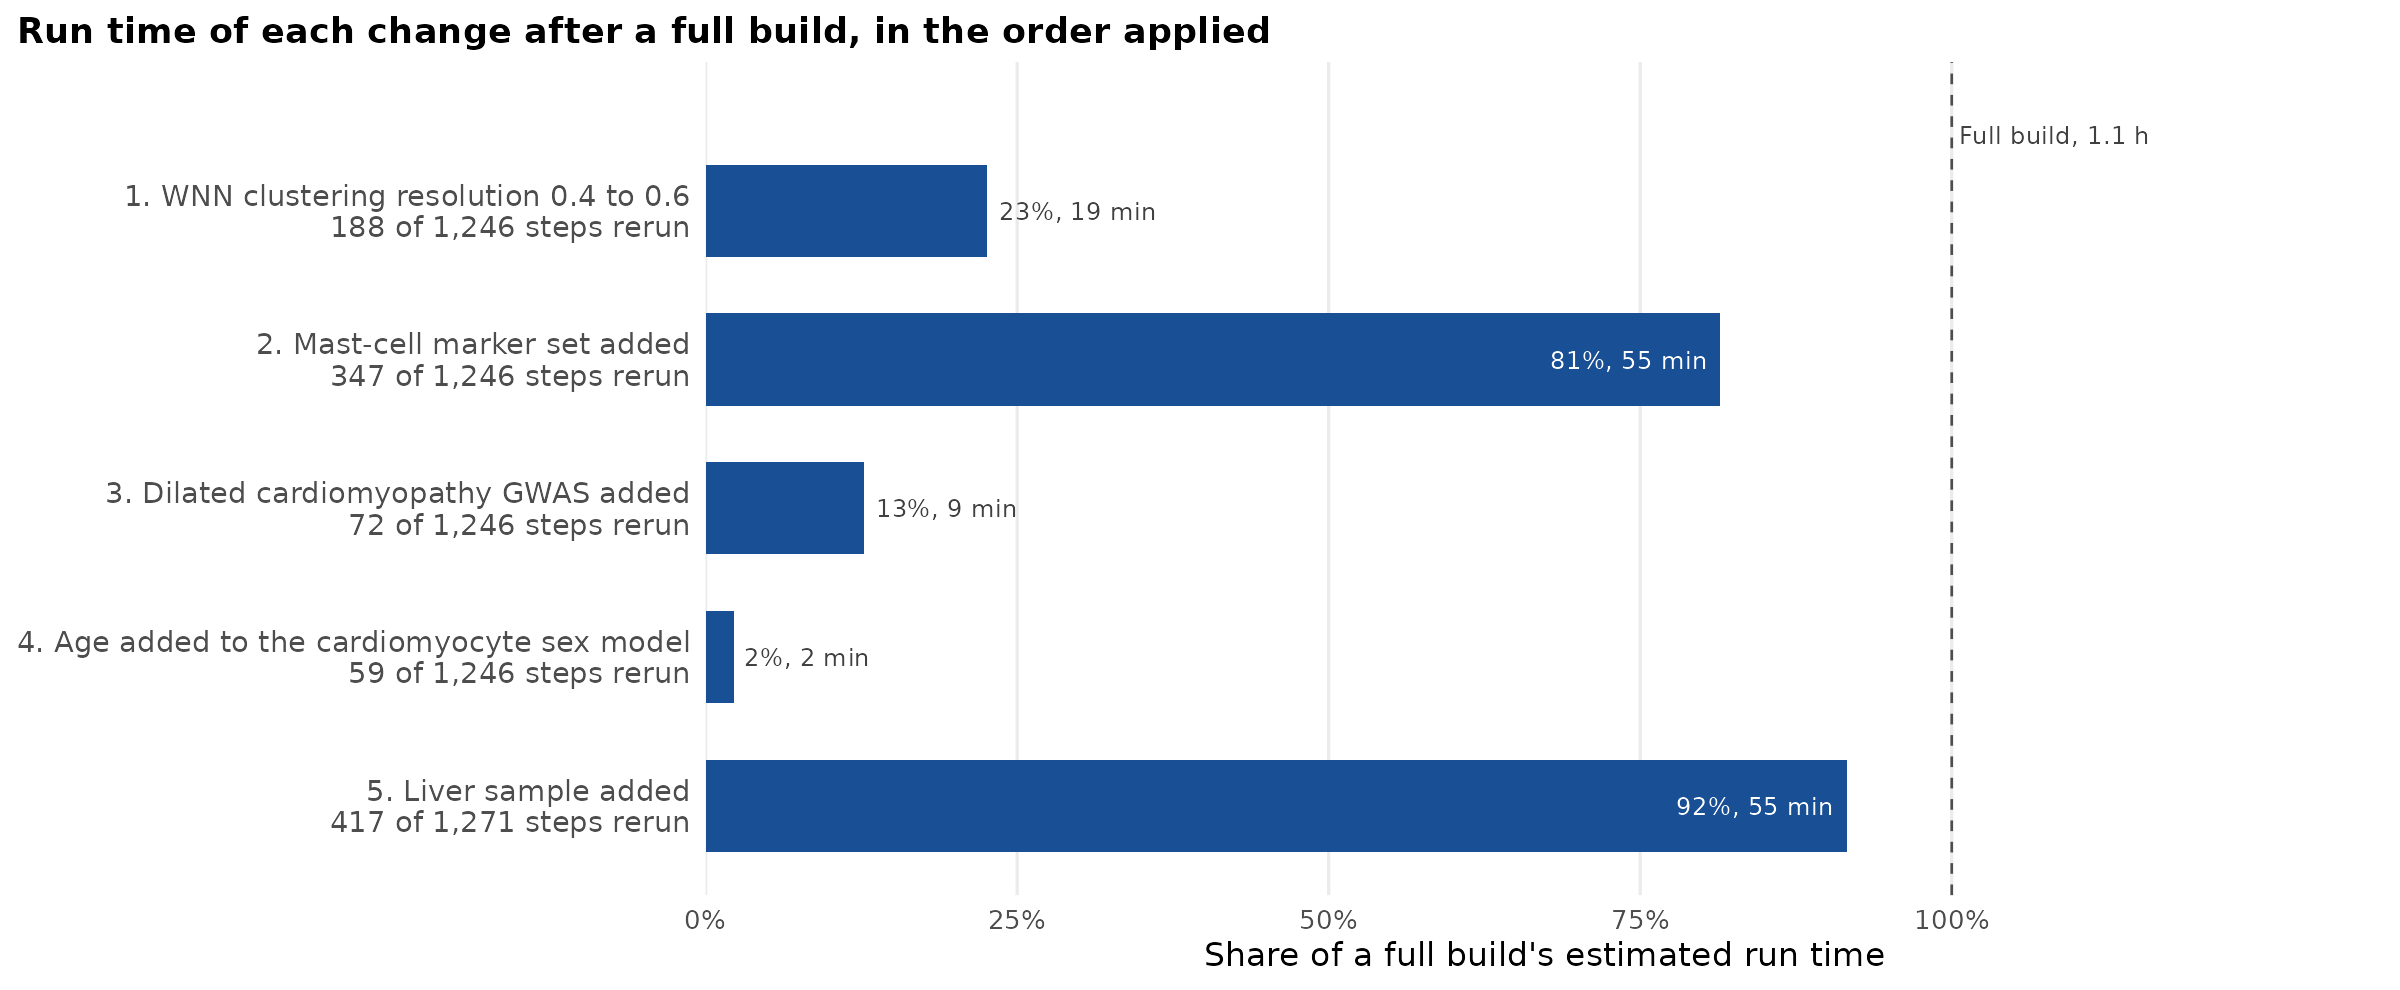
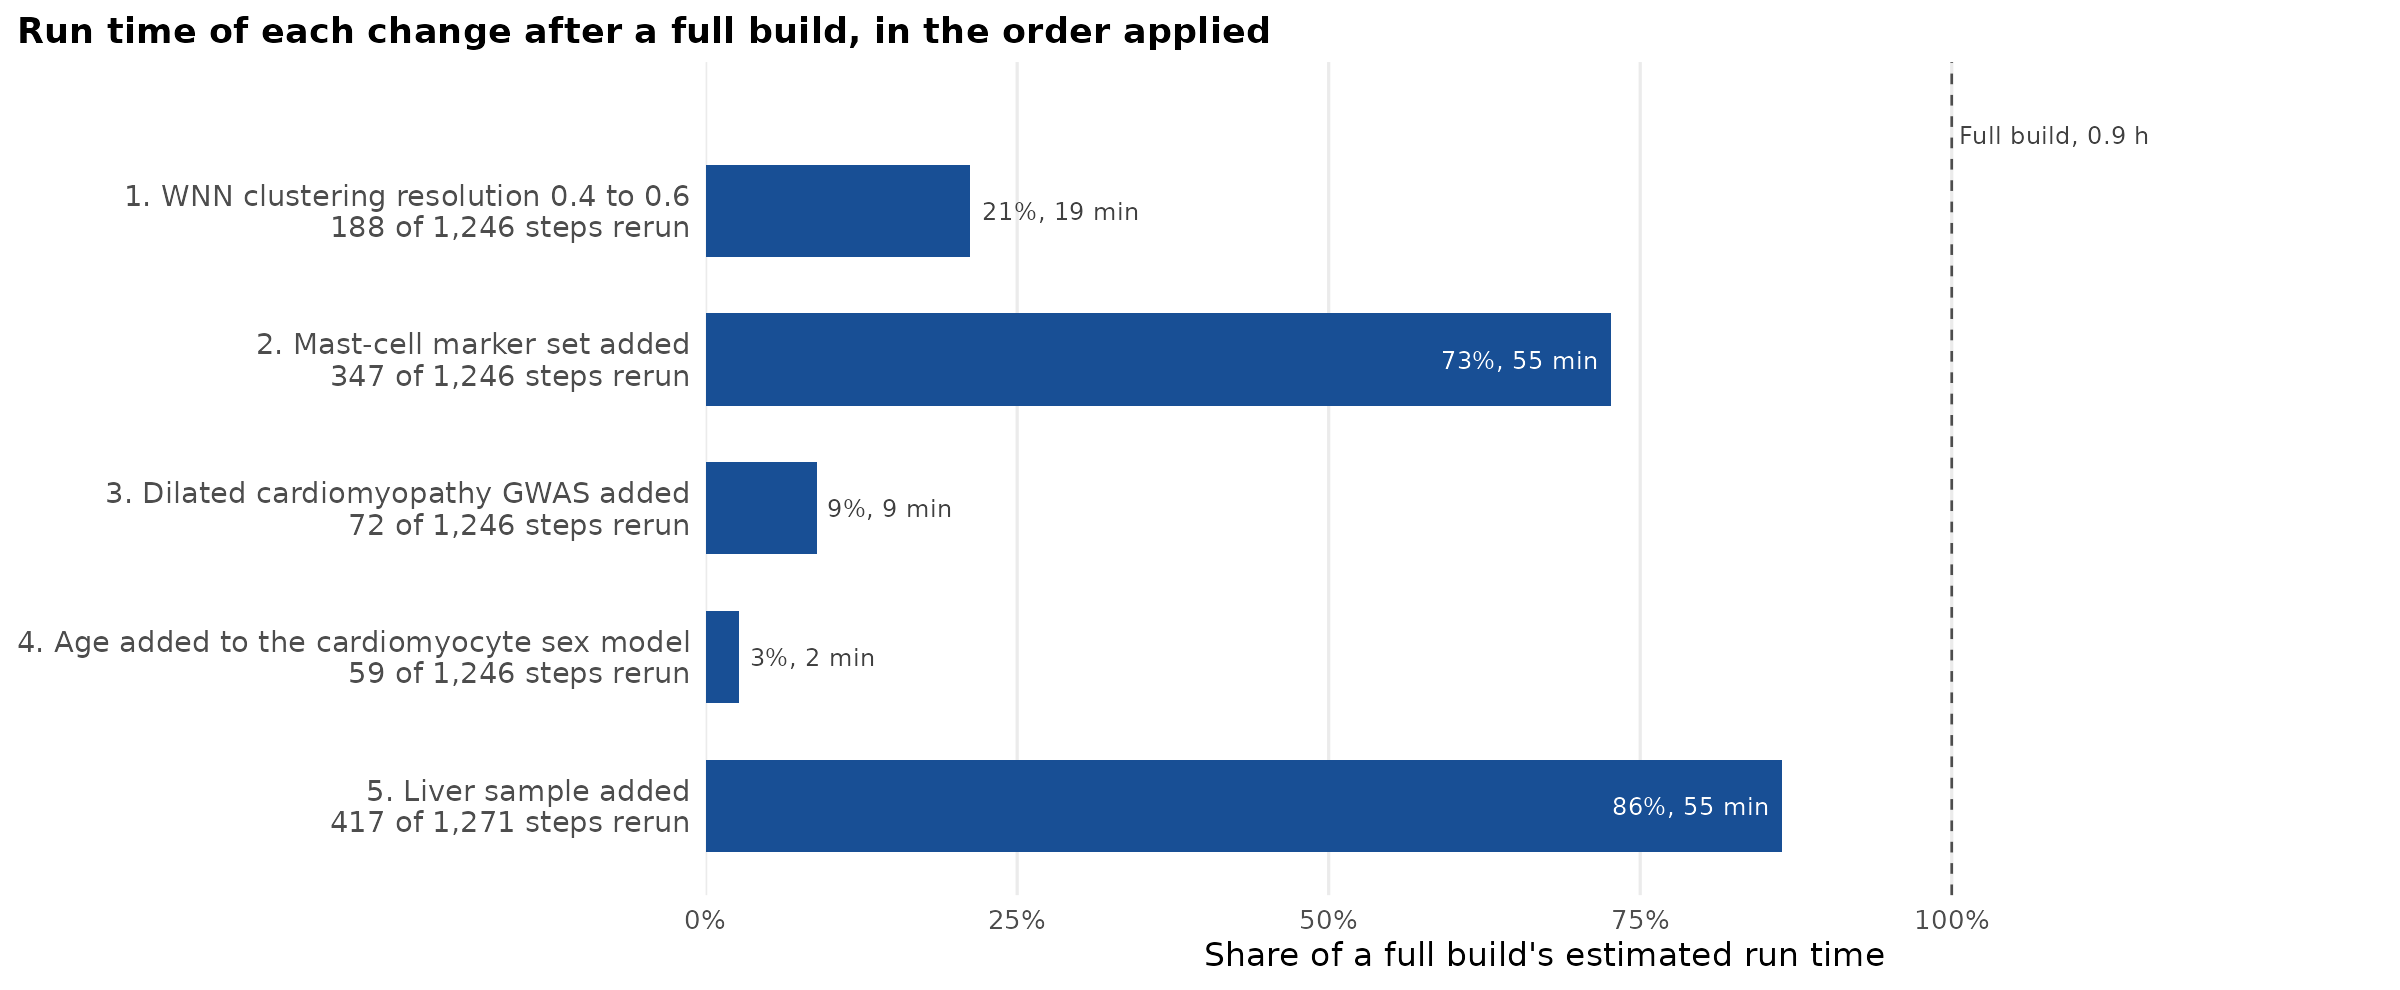
Estimate run time with as many workers as fit in one server
S2A, S3A and S4 replayed each run on configuration_dev's fixed pool of
16 light, 6 heavy, one large and one huge worker, which uses at most 64
cores and queues big steps behind the single large and huge workers.
The estimate now assumes as many workers of each tier as fit in 128
cores and 2,000 GB (BENCHMARK_BUDGET). Each execution holds the cores
and memory that Slurm books for a worker of its tier, and every ready
execution that fits starts, in the order they became ready, so smaller
steps fill gaps that larger ones do not fit. Booked memory, not cores,
limits it. The estimate is optimistic, because the recorded runtimes
were measured with fewer steps running at once.

simulate_wall_time_seconds() now schedules against a capacity vector.
benchmark_simulation_check() keeps the fixed pool, each execution
holding one worker of its tier, so its values are unchanged. The
Seurat/Signac chains and every critical path are unchanged. multiomeR's
estimates fall by up to 41%, and none rises. Panel titles name the
2 TB, and the README describes the budget.

contained_target_breaking: supplementary_table_S6, supplementary_figures_S2_S4_plots

diff --git a/pipeline_manuscript_figures/README.md b/pipeline_manuscript_figures/README.md
@@ -27,8 +27,8 @@ below `results/`:
   non-zero entries, ATAC fragments and input files `data/benchmark_sizes.tsv`
   gives;
   `data/benchmark_revisions.tsv` measures what five revisions of `revision_31x`
-  rerun; `data/benchmark_simulation_check.tsv` compares the simulated wall
-  time with measured runs; and `data/benchmark_worker_attribution.tsv` gives the
+  rerun; `data/benchmark_simulation_check.tsv` compares the wall time
+  simulated on the configured workers with measured runs; and `data/benchmark_worker_attribution.tsv` gives the
   worker time that no target claims while each run ran. Its inputs are `data/benchmark_runs/`, the targets
   each measured run built, and `data/benchmark_allocations.tsv`, the worker
   cores and RAM that each counted target requested in the run that measured it.
@@ -242,24 +242,35 @@ dashed line at 100%, and careful manual checkpointing narrows that gap.
   chain's critical path is the sum of its runtimes, as when a script runs its
   steps one after another. Table S6 gives it; the figures show the simulated
   wall time.
-- **Simulated wall time,** which S2A, S3A and S4 show: the same runtimes scheduled on the workers of
-  `configuration_dev/crew_controllers.R`, which fit one 128-core server: 16
-  light, 6 heavy, one large and one huge worker, each target routed to the tier its RAM request selects. A target
-  is ready once its upstream targets have finished, and each tier's workers take
-  ready targets in the order they became ready. The conventional chain's
-  simulated wall time is the sum of its runtimes, as is its critical path, so it
-  takes no per-target overhead. Each multiomeR target also takes 2 s
-  for dispatching, loading and saving (`BENCHMARK_TASK_OVERHEAD_SECONDS`). With
-  it, the simulation came to 0.77-1.07 times the measured elapsed time of each
-  single-run record, against 0.67-1.00 times without it, which falls short most
-  for runs of many short targets, such as `revision_1`. The full revision build
+- **Simulated wall time,** which S2A, S3A and S4 show: the same runtimes
+  scheduled on one server with 128 cores and 2 TB (`BENCHMARK_BUDGET`), with as
+  many workers of each tier of `configuration_dev/crew_controllers.R` as fit.
+  Each target goes to the tier its RAM request selects, and each of its
+  executions holds the cores and memory that Slurm books for a worker of that
+  tier, such as one core and 51.5 GB for a light worker. Memory, not cores,
+  limits it: at most 38 light, 15 heavy, 9 large or 3 huge workers fit at once.
+  A target is ready once its upstream targets have finished. Ready executions
+  start in the order they became ready, each as soon as it fits in the free
+  cores and memory, so a smaller step can start while an earlier, larger one
+  waits. Each multiomeR target also takes 2 s for dispatching, loading and
+  saving (`BENCHMARK_TASK_OVERHEAD_SECONDS`). The estimate is optimistic: the
+  recorded runtimes were measured with fewer steps running at once, on at most
+  16 light, 6 heavy, one large and one huge worker. The conventional chain's
+  simulated wall time is the sum of its runtimes, as is its critical path, so
+  it takes no per-target overhead.
+  `benchmark_simulation_check.tsv` checks the recorded runtimes and that
+  overhead against measured runs. It schedules each run on the workers that
+  ran it, the 16 light, 6 heavy, one large and one huge worker of
+  `configuration_dev/crew_controllers.R`, each execution holding one worker of
+  its tier. With the overhead, the simulation came to 0.77-1.07 times the
+  measured elapsed time of each single-run record, against 0.67-1.00 times
+  without it, which falls short most for runs of many short targets, such as `revision_1`. The full revision build
   is the exception, at 0.53: other users' jobs on its node held up its workers,
   so 191 of its targets waited over a minute between dispatch and start, against
-  none in an earlier build of the same aggregation.
-  `benchmark_simulation_check.tsv` compares the simulation, with and without
-  that overhead, with each recorded run's elapsed time: the periods in which its
-  targets ran, from the first recorded start to the last completion, joined
-  across gaps of up to ten minutes. It also gives each run's median start gap,
+  none in an earlier build of the same aggregation. The check compares the
+  simulation, with and without that overhead, with each recorded run's elapsed
+  time: the periods in which its targets ran, from the first recorded start to
+  the last completion, joined across gaps of up to ten minutes. It also gives each run's median start gap,
   the time from the last completion of a target's upstream targets in the run to
   its start, which in large runs includes waiting for a busy worker.
   Records that span several driver runs are left out: `comparison`,
@@ -298,9 +309,10 @@ dashed line at 100%, and careful manual checkpointing narrows that gap.
 ### Accounting choices
 
 - Unlimited workers favour the workflow with more parallel steps, multiomeR,
-  so the figures show the simulated wall time on the configured budget instead
-  and Table S6 also gives the critical path. The shorter run time comes from
-  running steps in parallel, while CPU time stays similar.
+  so the figures show the simulated wall time within one server's cores and
+  memory instead, and Table S6 also gives the critical path. As many workers
+  as fit, with runtimes measured on fewer, still favour multiomeR. The shorter
+  run time comes from running steps in parallel, while CPU time stays similar.
 - Crediting the conventional chain with a separate allocation per step favours
   it: a single script would hold its largest allocation, up to 500 GB for peak
   calling, for its whole run.
